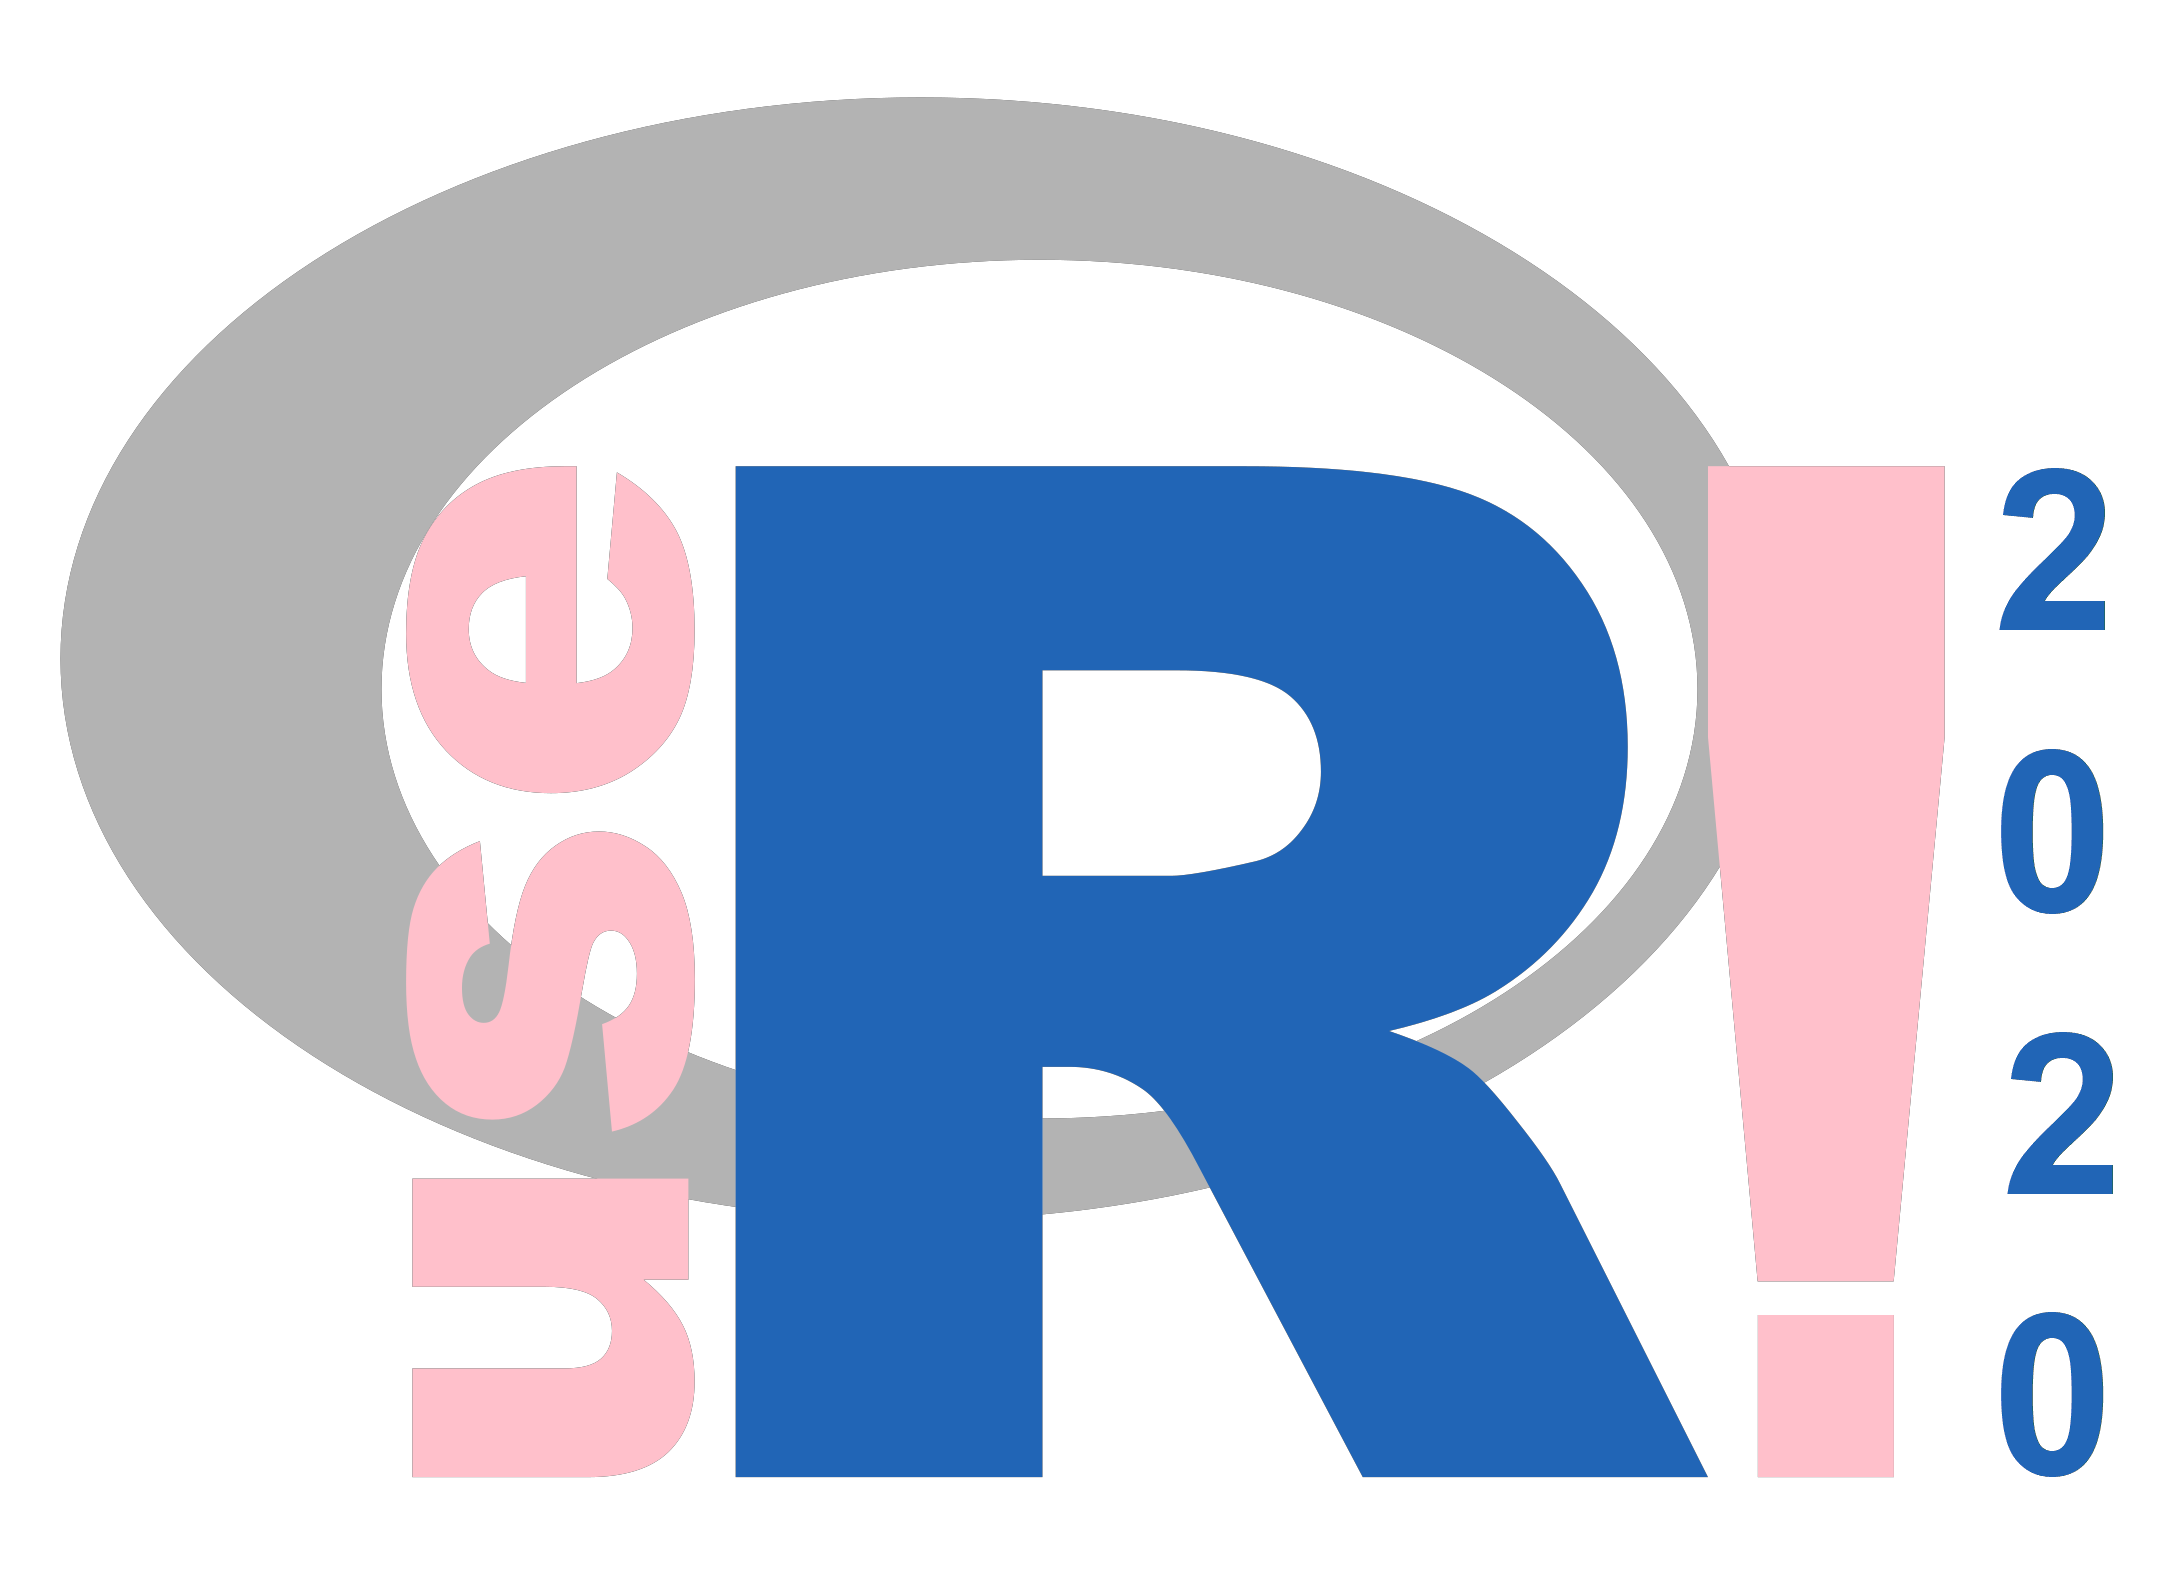
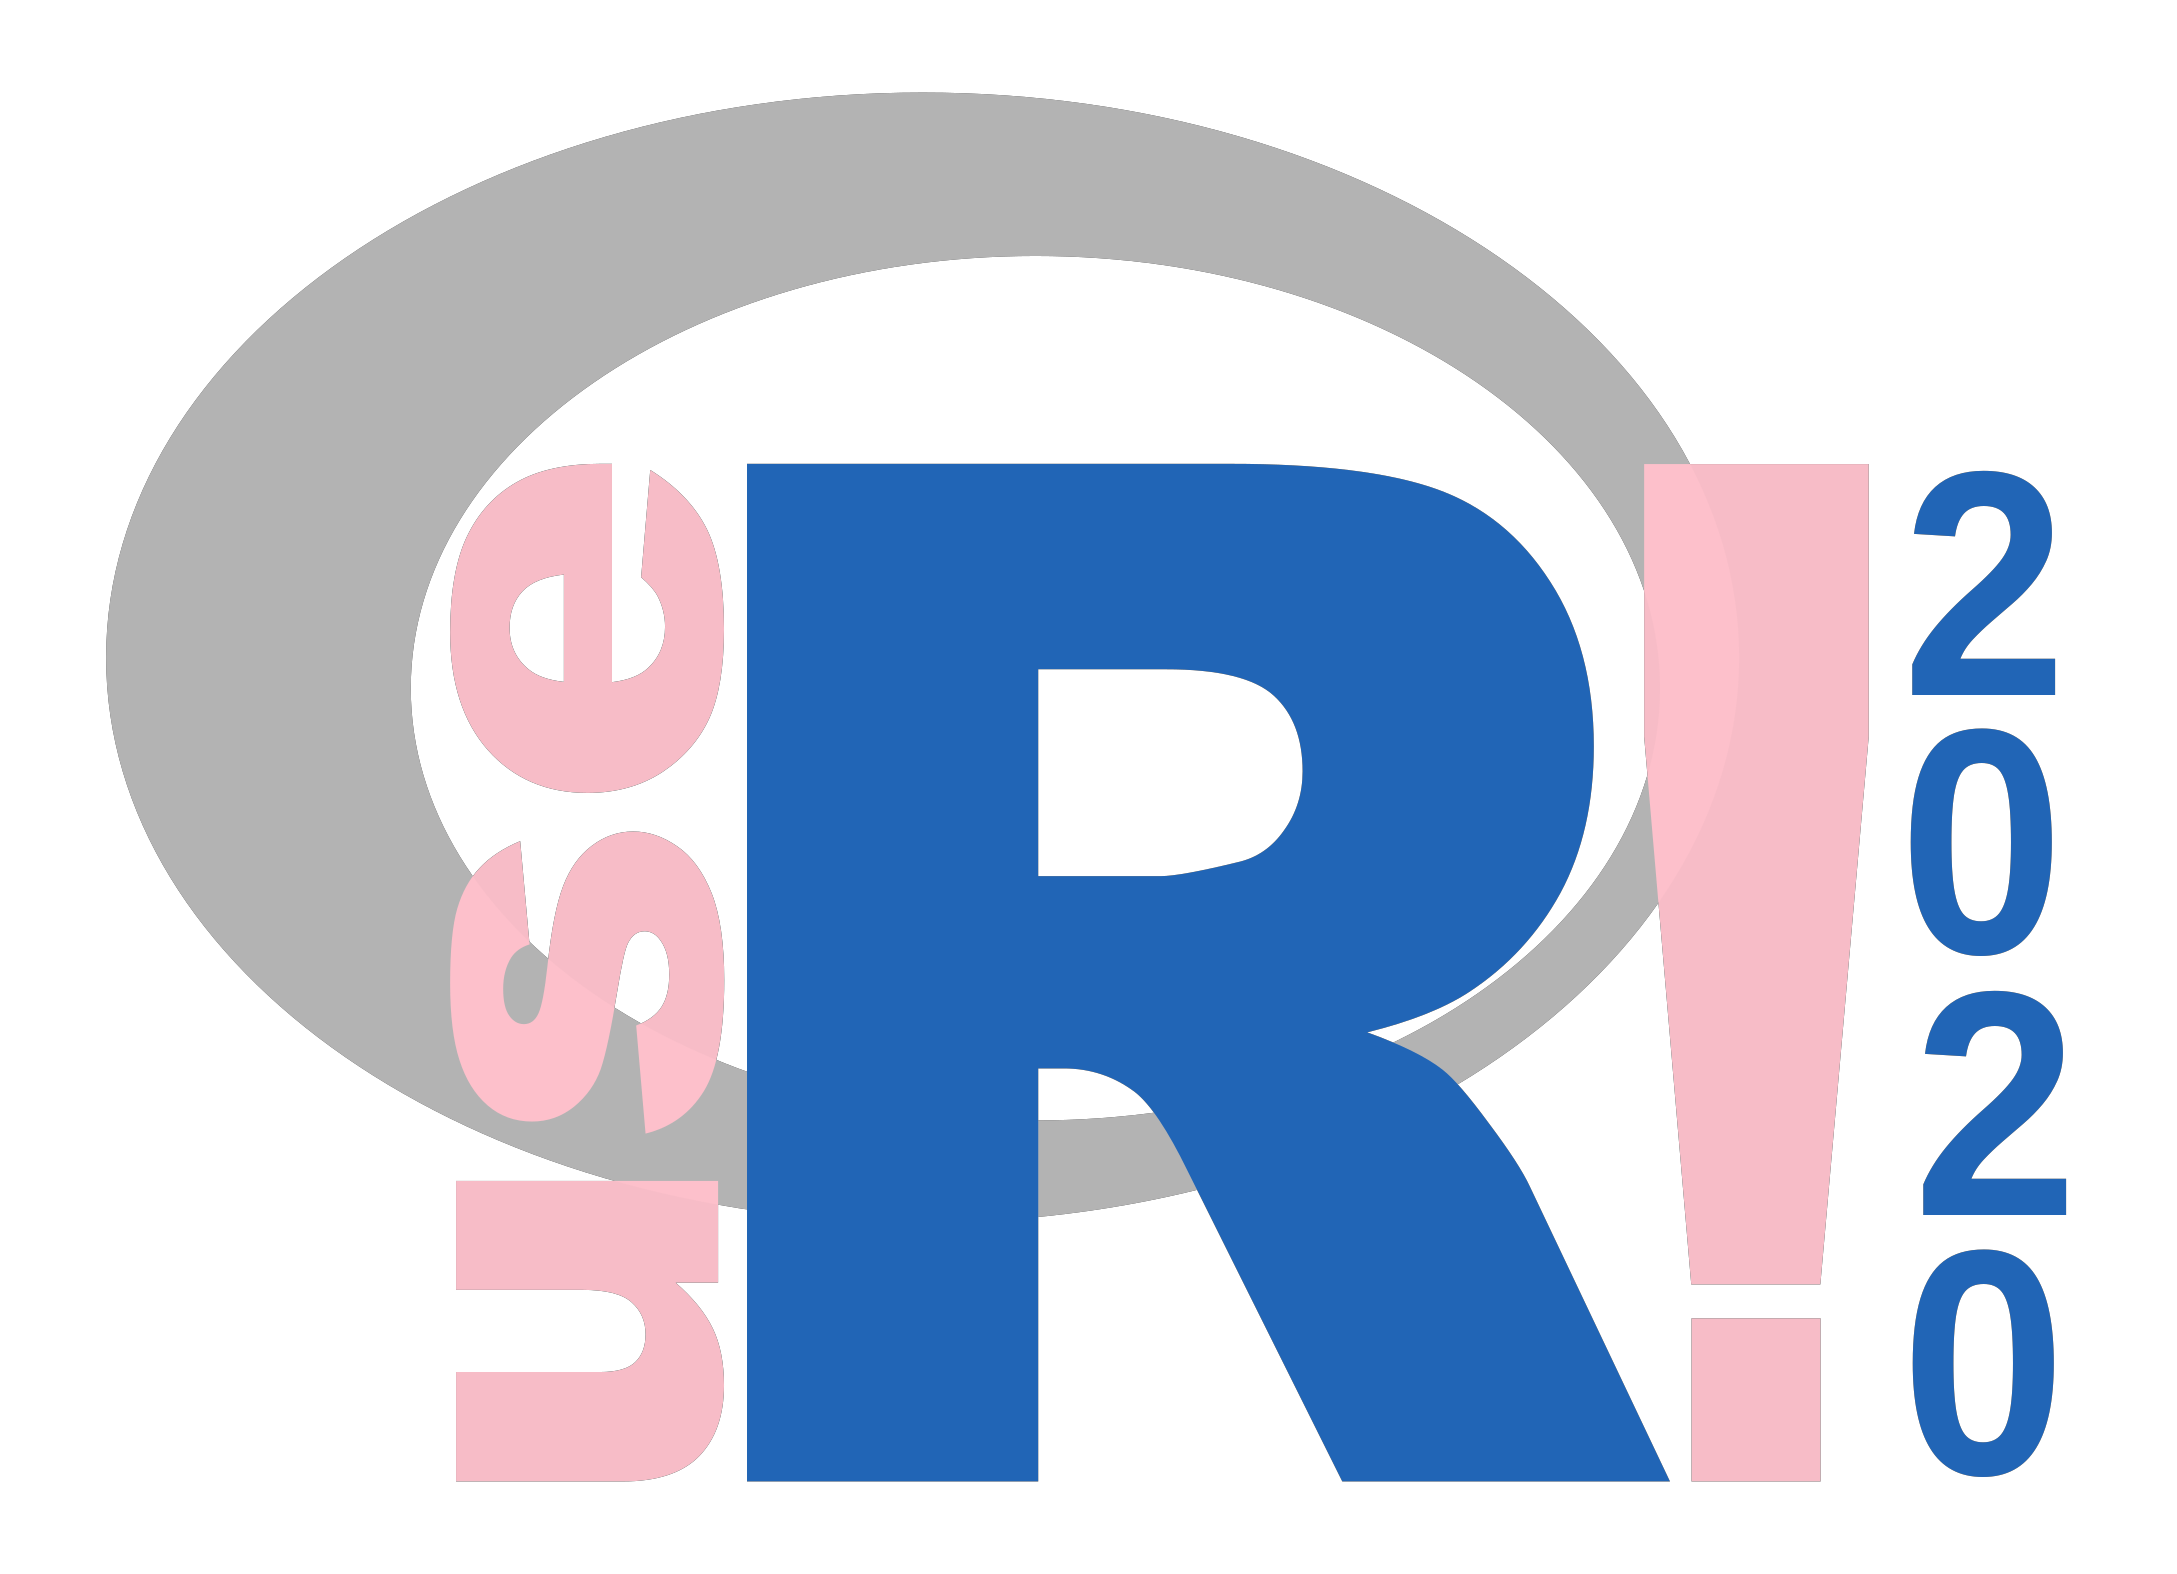
make it work with new SVG files

diff --git a/README.md b/README.md
@@ -1,48 +1,75 @@
 
 <!-- README.md is generated from README.Rmd. Please edit that file -->
+userlogo
+========
 
-# userlogo
+The goal of userlogo is to customize the useR! logo with
 
-The goal of userlogo is to customize the useR\! logo with
+-   the chosen colour for the "use" and "!",
 
-  - the chosen colour for the “use” and “\!”,
+-   the conference year.
 
-  - the conference year.
-  
-  **Note:** Light colours don't render well in PNG, but are fine in the SVG. It is recommended that you use the SVG version where possible.
-
-## Installation
+Installation
+------------
 
 ``` r
 remotes::install_github("lockedata/userlogo")
 ```
 
-## Example
+Example
+-------
 
-Default logo.
+Default logos.
 
 ``` r
-magick::image_read_svg(system.file("extdata", "userlogo.svg",
+magick::image_read_svg(system.file("extdata", "userlogo-withyear.svg",
                            package = "userlogo"))
 ```
 
 <img src="man/figures/README-default-1.png" width="100%" />
 
-Make it pink\!
+``` r
+magick::image_read_svg(system.file("extdata", "userlogo-withyear-square.svg",
+                           package = "userlogo"))
+```
+
+<img src="man/figures/README-default-2.png" width="100%" />
+
+Make them pink! This will create 2 PNG files and 2 SVG files in the folder you choose.
 
 ``` r
 dir <- tempdir()
 userlogo::create_logo(colour = "#ffc0cb",
                       year = 2020,
                       folder = dir)
+#> Called from: modify_logo("userlogo-withyear-square", colour = colour, year = year, 
+#>     folder = folder)
+#> debug at /home/maelle/Documents/locke_data/userlogo/R/create_logo.R#56: svg <- magick::image_read_svg(svg_path, width = 2177.1023, height = 1574.6538)
+#> debug at /home/maelle/Documents/locke_data/userlogo/R/create_logo.R#59: magick::image_write(svg, file.path(folder, paste0(logofile, ".png")))
+#> Called from: modify_logo("userlogo-withyear", colour = colour, year = year, 
+#>     folder = folder)
+#> debug at /home/maelle/Documents/locke_data/userlogo/R/create_logo.R#56: svg <- magick::image_read_svg(svg_path, width = 2177.1023, height = 1574.6538)
+#> debug at /home/maelle/Documents/locke_data/userlogo/R/create_logo.R#59: magick::image_write(svg, file.path(folder, paste0(logofile, ".png")))
 
-magick::image_read_svg(file.path(dir, "userlogo.svg"))
+magick::image_read_svg(file.path(dir, "userlogo-withyear.svg"))
 ```
 
 <img src="man/figures/README-pink-1.png" width="100%" />
 
 ``` r
-magick::image_read(file.path(dir, "userlogo.png"))
+magick::image_read(file.path(dir, "userlogo-withyear.png"))
 ```
 
 <img src="man/figures/README-pink-2.png" width="100%" />
+
+``` r
+magick::image_read_svg(file.path(dir, "userlogo-withyear-square.svg"))
+```
+
+<img src="man/figures/README-pink-3.png" width="100%" />
+
+``` r
+magick::image_read(file.path(dir, "userlogo-withyear-square.png"))
+```
+
+<img src="man/figures/README-pink-4.png" width="100%" />
